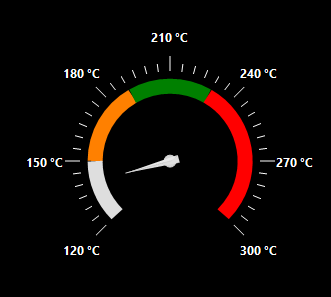
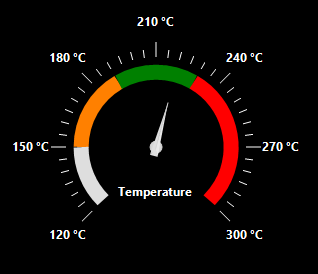
WF-52450 Details about FrameThickness and DrawLabel has been documented.

diff --git a/WindowsForms/Gauge/Radial-Gauge.md b/WindowsForms/Gauge/Radial-Gauge.md
@@ -227,8 +227,6 @@ The following screenshot illustrates the HalfCircle Frame of RadialGauge,
 
 Frame of the RadialGauge will be a Full circle and the color which is specified in the `FillColor` will fill the frame as indication of the current value of the gauge. Start and SweepAngle of the RadialGauge is changeable and the Gauge will be rendered based on the value of Start and SweepAngle. Default value of the Start and SweepAngle will be 0 and 360.  Filling of color towards current value will be start from the angle specified in the `StartAngle`. Font settings of the Value label can be changed using `GaugeValueFont` of RadialGauge. 
 
-The `ArcThickness` property is used to specify the thickness of the frame. For fill type frame, the default value of the `ArcThickness` is 20.
-
 Needle and tick marks are not supported for fill type frame. Hence, the following properties are not applicable and do not have any effect:
 
 * ShowBackgroundFrame
@@ -541,6 +539,32 @@ Me.radialGauge1.MinorDifference = 2F
 
 ![Radial Gauge with major and minor ticks](Radial-Gauge_images/Radial-Gauge_img18.png)
 
+### FrameThickness
+
+The `FrameThickness` property of RadialGauge is used to specify the thickness of the frame. By default, the value of this property is 12. For [filltype](https://help.syncfusion.com/windowsforms/gauge/radial-gauge#fillcircle) frame, the default value of the `FrameThickness` is 20.
+
+The following code and screenshot illustrates the RadialGauge with different FrameThickness,
+
+{% tabs %}
+
+{% highlight C# %}
+
+this.radialGauge1.FrameThickness = 18; 
+this.radialGauge1.Value = 60;
+
+{% endhighlight %}
+
+{% highlight VB %}
+
+Me.radialGauge1.FrameThickness = 18
+this.radialGauge1.Value = 60
+
+{% endhighlight %}
+
+{% endtabs %}
+
+![Scale Label customization in FullCircle Frametype](Radial-Gauge_images/Radial-Gauge-FrameThickness.png)
+
 ### Label customization
 
 Appearance and text of Scale labels in `FullCircle`, `HalfCircle` and `QuarterCircle` frame types and Value label of `Fill` frame type can customized using `DrawLabelEventArgs` event.
@@ -571,16 +595,22 @@ Text which is to be drawn as label <br/><br/></td></tr>
 <tr>
 <td>
 4<br/><br/></td><td>
-VerticalAlignment<br/><br/></td><td>
-Vertical placement of the Value label when the HorizontalAlignment is Center and FrameType is Fill<br/><br/></td></tr>
+LabelType<br/><br/></td><td>
+Type of label that is being drawn in RadialGauge<br/><br/></td></tr>
 <tr>
 <td>
 5<br/><br/></td><td>
-HorizontalAlignment<br/><br/></td><td>
-Horizontal placement of the Value label when the VerticalAlignment is Center and FrameType is Fill<br/><br/></td></tr>
+LabelAlignment<br/><br/></td><td>
+Alignment of the label when the LabelType is Default or Value
+N> Label alignment is not applicable when the LabelType is Scale<br/><br/></td></tr>
 <tr>
 <td>
 6<br/><br/></td><td>
+Offset<br/><br/></td><td>
+Point to adjust the Label horizontally and vertically based on the value specified in X and Y coordinates<br/><br/></td></tr>
+<tr>
+<td>
+7<br/><br/></td><td>
 Handled<br/><br/></td><td>
 All the above customizations will work only if the argument is true.<br/><br/></td></tr>
 </table>
@@ -597,8 +627,15 @@ private void RadialGauge1_DrawLabel(object sender,
 Syncfusion.Windows.Forms.Gauge.DrawLabelEventArgs e)
 {
       e.Handled = true;
-      e.Text += " °C";
-      e.Font = new System.Drawing.Font("Segoe UI", 9F, System.Drawing.FontStyle.Bold, System.Drawing.GraphicsUnit.Point, ((byte)(0)));
+            if (e.LabelType == Syncfusion.Windows.Forms.Gauge.LabelType.Scale)
+                e.Text += " °C";
+            else
+            {
+                e.Text = "Temperature";
+                e.LabelAlignment = Syncfusion.Windows.Forms.Gauge.LabelAlignment.Center;
+                e.Offset = new Point(e.Offset.X + 1, e.Offset.Y + 45);
+            }
+            e.Font = new System.Drawing.Font("Segoe UI", 9F, System.Drawing.FontStyle.Bold, System.Drawing.GraphicsUnit.Point, ((byte)(0)));
 }
 
 {% endhighlight %}
@@ -609,8 +646,14 @@ AddHandler Me.radialGauge1.DrawLabel, AddressOf RadialGauge1_DrawLabel
 
 Private Sub RadialGauge1_DrawLabel(sender As Object, e As Syncfusion.Windows.Forms.Gauge.DrawLabelEventArgs) Handles radialGauge1.DrawLabel
         e.Handled = True
-        e.Text += " °C"
-        e.Font = New System.Drawing.Font("Segoe UI", 9.0F, System.Drawing.FontStyle.Bold, System.Drawing.GraphicsUnit.Point, CType(0, Byte))
+			If e.LabelType = Syncfusion.Windows.Forms.Gauge.LabelType.Scale Then
+				e.Text &= " °C"
+			Else
+				e.Text = "Temperature"
+				e.LabelAlignment = Syncfusion.Windows.Forms.Gauge.LabelAlignment.Center
+				e.Offset = New Point(e.Offset.X + 1, e.Offset.Y + 45)
+			End If
+			e.Font = New System.Drawing.Font("Segoe UI", 9F, System.Drawing.FontStyle.Bold, System.Drawing.GraphicsUnit.Point, (CByte(0)))
     End Sub
 
 {% endhighlight %}
